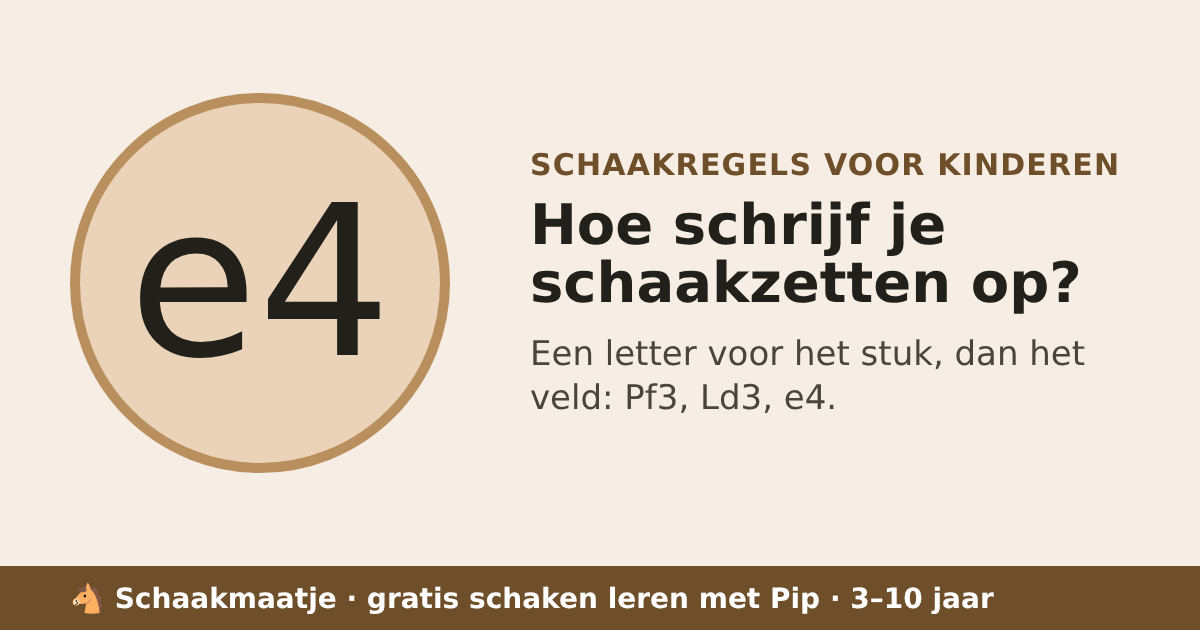
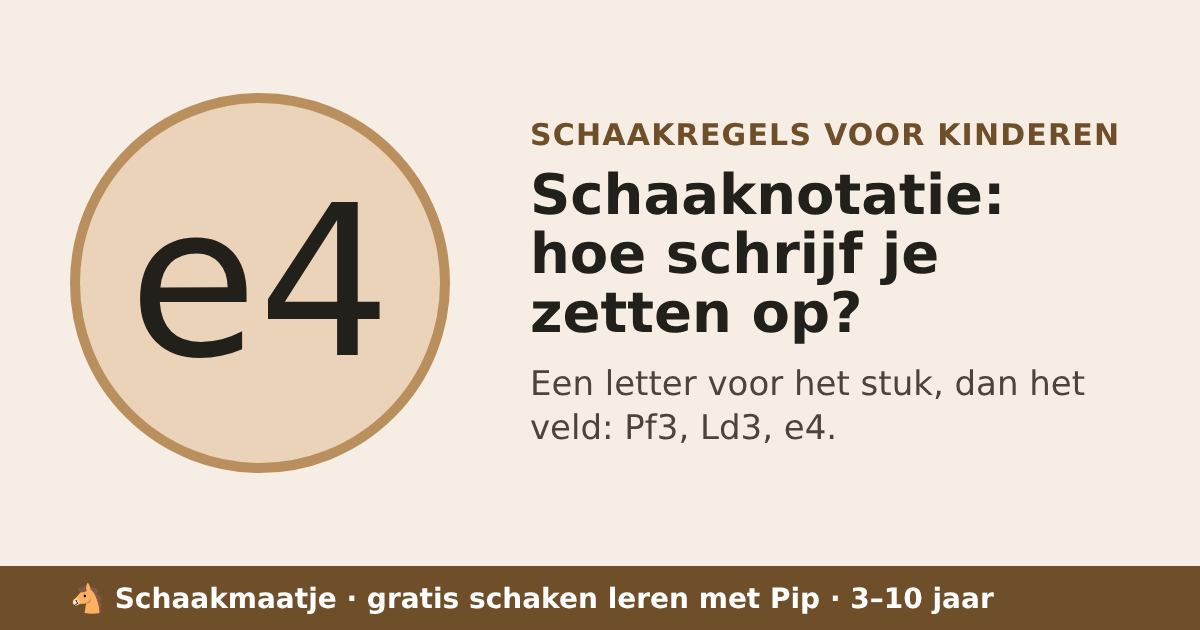
Zevenenzestigste review verwerkt
Blokkerend: de vorkpagina zei dat een koning die schaak staat zelf weg moet;
nu "eerst uit het schaak". Penning: een gepend stuk mag niet van de lijn af,
maar wel langs de lijn schuiven of de aanvaller slaan.

Regelpagina's waarvan de les voor oudere kinderen is, wijzen ook naar de eerste
les. Lespagina's hadden in de geëxporteerde HTML twee h1's; de build controleert
nu dat elke pagina er precies één heeft (ook stal, opfrissen en offline gerepareerd).
Verder de kleine punten: "lijn" vs. diagonaal, drie manieren om een penning op
te heffen, Tad1, notatie-3 uit de lijst, knop boven de vouw op /schaakregels/,
contrast van de tekentegels, "Hierna" op de laatste pagina, focusrand op /over,
een vrije poort voor live spelen in de doorloop, en een directere vorktest.

Changed region(s): [[0.4317, 0.181, 0.9558, 0.6937]]

diff --git a/src/content/schaakregels.ts b/src/content/schaakregels.ts
@@ -783,7 +783,7 @@ export const SCHAAKREGELS: Onderwerp[] = [
   },
   {
     slug: 'schaaknotatie',
-    vraag: 'Hoe schrijf je schaakzetten op?',
+    vraag: 'Schaaknotatie: hoe schrijf je zetten op?',
     zoektitel: 'Schaaknotatie: zo schrijf je schaakzetten op',
     omschrijving:
       'Elk veld heeft een naam, zoals e4, en elk stuk een letter: K, D, T, L en P. Zo lees en schrijf je schaakzetten, uitgelegd met een bewegend bord.',
@@ -814,6 +814,7 @@ export const SCHAAKREGELS: Onderwerp[] = [
         tekst: [
           'Slaat een stuk iets, dan komt er een x tussen: Lxf7 betekent dat de loper op f7 slaat. Slaat een pion, dan schrijf je de lijn waar hij vandaan komt: exd5.',
           'Staat de koning na de zet schaak, dan komt er een + achter. Is het mat, dan een #. De korte rokade schrijf je als 0-0, de lange als 0-0-0. En promoveert een pion, dan schrijf je erachter wat hij wordt: e8D.',
+          'Kunnen twee gelijke stukken naar hetzelfde veld, dan zet je erbij welke: Tad1 is de toren van de a-lijn naar d1, Pbd2 het paard van de b-lijn.',
           'Een partij schrijf je op met een nummer per zettenpaar: 1. e4 e5 2. Pf3 Pc6. Eerst de zet van wit, dan die van zwart.',
         ],
       },
@@ -824,7 +825,8 @@ export const SCHAAKREGELS: Onderwerp[] = [
       ['Waarom staat er in Engelse boeken N in plaats van P?', 'Elke taal heeft eigen letters. In het Engels is het paard N (knight), de loper B, de toren R en de dame Q. De velden heten overal hetzelfde.'],
       ['Moet een kind dit kennen voor de schaakclub?', 'Bij wedstrijden schrijf je je zetten op, dus vroeg of laat wel. In de app komt het in wereld 12, als een kind alle regels kent.'],
     ],
-    lessen: ['notatie-1', 'notatie-2', 'notatie-3'],
+    // notatie-3 gaat over het begin van een partij, niet over opschrijven (zevenenzestigste review).
+    lessen: ['notatie-1', 'notatie-2'],
   },
   {
     slug: 'vork',
@@ -842,12 +844,12 @@ export const SCHAAKREGELS: Onderwerp[] = [
         kop: 'Twee aanvallen met één zet',
         tekst: [
           'Je tegenstander mag per beurt maar één zet doen. Val je twee stukken tegelijk aan, dan kan hij er dus maar één in veiligheid brengen. Dat is het hele idee van de vork.',
-          'Het sterkst is een vork met schaak erin. Een koning die schaak staat, moet eerst zelf weg, en het andere stuk blijft onbeschermd achter.',
+          'Het sterkst is een vork met schaak erin. Een koning die schaak staat, moet eerst uit het schaak. Dan is er geen tijd om het andere stuk te redden.',
         ],
         animatie: {
           id: 'vork-paard',
           titel: 'Een paardenvork',
-          beschrijving: 'Een wit paard springt naar c7 en valt de zwarte koning op e8 en de toren op a8 tegelijk aan. De koning moet weg, en het paard slaat de toren.',
+          beschrijving: 'Een wit paard springt naar c7 en valt de zwarte koning op e8 en de toren op a8 tegelijk aan. De koning moet uit het schaak, en het paard slaat de toren.',
           fen: 'r3k3/8/N7/8/8/8/8/7K w - - 0 1',
           regels: 'echt',
           stappen: [
@@ -883,23 +885,23 @@ export const SCHAAKREGELS: Onderwerp[] = [
     kort: 'Een stuk zit vast, omdat er iets duurders achter staat.',
     stuk: 'b',
     antwoord:
-      'Een penning is een aanval op een stuk waar iets waardevollers achter staat, op dezelfde lijn. Staat de koning erachter, dan zit het voorste stuk vast. Schakers zeggen: het is gepend. Het mag niet weg, want dan zou de eigen koning schaak komen te staan.',
+      'Een penning is een aanval op een stuk waar iets waardevollers achter staat, op één rechte lijn: een rij, een lijn of een diagonaal. Staat de koning erachter, dan zit het voorste stuk vast. Schakers zeggen: het is gepend. Het mag niet opzij, want dan zou de eigen koning schaak komen te staan.',
     delen: [
       {
         kop: 'Vastgezet door de koning erachter',
         tekst: [
-          'Een toren, loper of dame valt over een lange lijn aan. Staan daar twee stukken van de tegenstander achter elkaar, dan zit het voorste in de knel. Gaat het opzij, dan raakt de aanval het stuk erachter.',
-          'Staat de koning erachter, dan is het streng: het voorste stuk mag dan helemaal niet weg, want je mag je eigen koning nooit schaak zetten.',
+          'Een toren, loper of dame valt ver aan, over een rij, een lijn of een diagonaal. Staan daar twee stukken van de tegenstander achter elkaar, dan zit het voorste in de knel. Gaat het opzij, dan raakt de aanval het stuk erachter.',
+          'Staat de koning erachter, dan is het streng: het voorste stuk mag dan niet van die lijn af, want je mag je eigen koning nooit schaak zetten. Kan het gepende stuk zelf over die lijn lopen, zoals een loper op een diagonaal of een toren op een rij, dan mag het wel langs de lijn schuiven, en de aanvaller slaan. Een paard kan dat nooit: dat zit echt vast.',
         ],
         animatie: {
           id: 'penning-loper',
           titel: 'Het paard zit vast',
-          beschrijving: 'Een witte loper gaat naar b5. Achter het zwarte paard op c6 staat de zwarte koning op e8, op dezelfde schuine lijn. Het paard kan geen enkele zet meer doen.',
+          beschrijving: 'Een witte loper gaat naar b5. Achter het zwarte paard op c6 staat de zwarte koning op e8, op dezelfde diagonaal. Het paard kan geen enkele zet meer doen.',
           fen: '4k3/8/B1n5/8/8/8/8/7K w - - 0 1',
           regels: 'echt',
           stappen: [
-            { tekst: 'Het zwarte paard en de zwarte koning staan op dezelfde schuine lijn.', markeer: ['c6', 'e8'] },
-            { tekst: 'De loper gaat op die lijn staan, op b5.', zet: 'a6-b5' },
+            { tekst: 'Het zwarte paard en de zwarte koning staan op dezelfde diagonaal.', markeer: ['c6', 'e8'] },
+            { tekst: 'De loper gaat op die diagonaal staan, op b5.', zet: 'a6-b5' },
             // Geen `bereik`: het paard heeft nul velden, en dat is juist de les.
             // tests/schaakregels.test.ts rekent na dat het vóór b5 wel kon springen en daarna niet.
             {
@@ -912,15 +914,15 @@ export const SCHAAKREGELS: Onderwerp[] = [
       {
         kop: 'En dan?',
         tekst: [
-          'Een gepend stuk is een makkelijk doelwit. Het kan niet vluchten, dus val het nog een keer aan, bijvoorbeeld met een pion. Je tegenstander moet het dan verdedigen of de penning opheffen, vaak door de koning opzij te zetten.',
+          'Een gepend stuk is een makkelijk doelwit. Het kan niet zomaar vluchten, dus val het nog een keer aan, bijvoorbeeld met een pion. Je tegenstander moet het dan verdedigen of de penning opheffen: de koning opzij zetten, iets ertussen zetten of de aanvaller slaan.',
           'Staat er geen koning maar een ander stuk achter, zoals de dame, dan mag het voorste stuk wel weg. Alleen kost dat dan vaak de dame.',
         ],
       },
     ],
     thuis:
-      'Zet op een leeg bord je koning en een paard op één lijn, en geef je kind een loper of toren. Vraag: waar zet je hem neer zodat het paard niet meer weg kan? Laat je kind daarna proberen met het paard te springen, en kijk samen waarom dat niet mag.',
+      'Zet op een leeg bord je koning en een paard op één rechte lijn of diagonaal, en geef je kind een loper of toren. Vraag: waar zet je hem neer zodat het paard niet meer weg kan? Laat je kind daarna proberen met het paard te springen, en kijk samen waarom dat niet mag.',
     vragen: [
-      ['Welke stukken kunnen pennen?', 'Alleen de stukken die over een lange lijn gaan: de toren, de loper en de dame. Een paard, pion of koning kan geen penning geven.'],
+      ['Welke stukken kunnen pennen?', 'Alleen de stukken die ver over een rij, lijn of diagonaal gaan: de toren, de loper en de dame. Een paard, pion of koning kan geen penning geven.'],
       ['Wanneer leert mijn kind de penning in de app?', 'In wereld 13, de Tactiekgrot, direct na de vork.'],
     ],
     lessen: ['tactiek-2'],

diff --git a/src/app/schaakregels/[onderwerp]/page.tsx b/src/app/schaakregels/[onderwerp]/page.tsx
@@ -2,7 +2,7 @@ import type { Metadata } from 'next'
 import Link from 'next/link'
 import { Icoon, lesIcoon } from '@/ui/beelden'
 import { notFound } from 'next/navigation'
-import { ALLE_LESSEN, lesMet } from '@/content'
+import { ALLE_LESSEN, lesMet, wereldMet } from '@/content'
 import { SCHAAKREGELS, onderwerpMet } from '@/content/schaakregels'
 import { SITE, VOOR_KINDEREN, deelkaart, kruimels } from '@/seo'
 import { Gegevens } from '@/ui/Gegevens'
@@ -49,7 +49,19 @@ export default async function Onderwerp({ params }: { params: Promise<{ onderwer
   const url = `${SITE}/schaakregels/${o.slug}/`
   const lessen = o.lessen.flatMap((id) => lesMet(id) ?? [])
   const i = SCHAAKREGELS.indexOf(o)
-  const volgende = SCHAAKREGELS[(i + 1) % SCHAAKREGELS.length]
+  // Na het laatste onderwerp niet terug naar het opzetten van het bord, maar naar het overzicht.
+  const volgende = SCHAAKREGELS[i + 1]
+  const oefen = lesMet(o.oefenEerst ?? o.lessen[0])
+  // Een les uit een wereld voor oudere kinderen (vork, penning, notatie): wie via Google
+  // met een kind van vijf komt, kreeg daar een opgave die het paard al kent. Dan ook de
+  // weg naar het begin (zevenenzestigste review, conversie B1).
+  const voorGevorderden = (wereldMet(oefen?.wereldId ?? '')?.minLeeftijd ?? 0) >= 8
+  const beginBijHetBegin = voorGevorderden && (
+    <p className={s.beginNog}>
+      Voor kinderen die de stukken al kennen. Nog nooit geschaakt?{' '}
+      <Link href={`/les/${ALLE_LESSEN[0].id}/`}>Begin bij de eerste les</Link>
+    </p>
+  )
 
   const gegevens = {
     '@context': 'https://schema.org',
@@ -101,6 +113,7 @@ export default async function Onderwerp({ params }: { params: Promise<{ onderwer
               <span aria-hidden="true">▶</span> Oefen dit met Pip, gratis
             </Link>
           )}
+          {beginBijHetBegin}
         </div>
       </header>
 
@@ -165,15 +178,22 @@ export default async function Onderwerp({ params }: { params: Promise<{ onderwer
         </ul>
         <p>
           <Link href={`/les/${o.oefenEerst ?? (lessen[0] ?? ALLE_LESSEN[0]).id}/`} className="btn btn--primary btn--big">
-            Begin met Schaakmaatje →
+            {voorGevorderden ? 'Oefen dit met Pip →' : 'Begin met Schaakmaatje →'}
           </Link>
         </p>
+        {beginBijHetBegin}
       </section>
 
       <section className={s.deel}>
-        <h2>Meer schaakregels</h2>
+        <h2>Meer over schaken</h2>
         <p>
-          Hierna: <Link href={`/schaakregels/${volgende.slug}/`}>{volgende.vraag}</Link>
+          {volgende ? (
+            <>
+              Hierna: <Link href={`/schaakregels/${volgende.slug}/`}>{volgende.vraag}</Link>
+            </>
+          ) : (
+            <Link href="/schaakregels/">Alle schaakregels op een rij</Link>
+          )}
         </p>
         <ul className={s.chips}>
           {SCHAAKREGELS.filter((x) => x !== o).map((x) => (

diff --git a/scripts/hosting-klaar.ts b/scripts/hosting-klaar.ts
@@ -121,6 +121,7 @@ function main() {
   vooraadOffline()
   controleerDeelplaatjes()
   controleerSitemap()
+  controleerHoofdkoppen()
 }
 
 /**
@@ -179,6 +180,34 @@ function canonicalVan(html: string): string | undefined {
 /** Staat er ergens een robots-meta met noindex, ongeacht de volgorde van de attributen? */
 function staatOpNoindex(html: string): boolean {
   return [...html.matchAll(/<meta\b[^>]*\bname="robots"[^>]*>/g)].some((m) => /noindex/.test(m[0]))
+}
+
+/**
+ * Elke pagina precies één h1, in de HTML zoals Google en een gedeelde link hem zien.
+ *
+ * De doorloop telt pas na het laden, en dan klopte het. Maar in de geëxporteerde HTML
+ * hadden alle 49 lespagina's er twee: de bovenbalk en de tekstversie van de les. En de
+ * stal en opfrissen hadden er nul, omdat ze tot het laden een lege pagina tekenden
+ * (zevenenzestigste review, codebase 1 en 2).
+ */
+export function hoofdkopFouten(uit: string): string[] {
+  const fouten: string[] = []
+  for (const html of alleBestanden(uit).filter((b) => b.endsWith('index.html'))) {
+    const n = (readFileSync(html, 'utf8').match(/<h1[\s>]/g) ?? []).length
+    if (n !== 1) fouten.push(`${html.slice(uit.length)}: ${n} keer een h1`)
+  }
+  return fouten
+}
+
+function controleerHoofdkoppen() {
+  const fouten = hoofdkopFouten(UIT)
+  if (fouten.length) {
+    console.error('Niet elke pagina heeft precies één hoofdkop:')
+    fouten.slice(0, 10).forEach((f) => console.error(`  ${f}`))
+    if (fouten.length > 10) console.error(`  … en ${fouten.length - 10} meer`)
+    process.exit(1)
+  }
+  console.log('Hosting-klaar: elke pagina heeft precies één hoofdkop.')
 }
 
 function controleerSitemap() {

diff --git a/src/app/schaakregels/Schaakregels.module.css b/src/app/schaakregels/Schaakregels.module.css
@@ -18,6 +18,9 @@
   background: var(--dark-sq); color: #fcf8ef; font-size: 30px; font-weight: 800; line-height: 1;
   box-shadow: var(--shadow);
 }
+/* Een teken (e4, ½) kreeg alleen licht op groen: 2,41:1. Met dezelfde donkere rand als
+   de stukken leest het ook in het lichte thema (zevenenzestigste review, layout). */
+.teken { -webkit-text-stroke: 1.5px #33302a; paint-order: stroke fill; filter: drop-shadow(0 1.5px 1px rgba(0, 0, 0, 0.28)); }
 .merkGroot { width: 96px; height: 96px; border-radius: 24px; font-size: 52px; }
 .stuk {
   font-family: 'Schaakstukken', sans-serif; font-variant-emoji: text; font-size: 1.25em;
@@ -27,6 +30,9 @@
 
 .deel { display: flex; flex-direction: column; gap: 16px; }
 .deel h2, .thuis h2 { margin: 0; font-size: clamp(1.35rem, 4vw, 1.7rem); }
+.beginNog { margin: 10px 0 0; font-size: 0.95rem; }
+/* Padding in plaats van min-height: het raakvlak groeit, de regelafstand niet. */
+.beginNog a { padding-block: 12px; }
 .tekst { max-width: 64ch; display: flex; flex-direction: column; gap: 12px; margin: 0; }
 .tekst p { margin: 0; }
 .bordvak { background: var(--surface); border: 2px solid var(--line); border-radius: 24px; padding: clamp(16px, 4vw, 28px); }

diff --git a/src/app/over/Over.module.css b/src/app/over/Over.module.css
@@ -18,7 +18,8 @@
 .lead { font-size: 1.15rem; margin-top: 14px; max-width: 34ch; }
 .knoppen { display: flex; flex-wrap: wrap; gap: 12px 18px; align-items: center; margin-top: 22px; }
 /* Een losse link naast de grote knop: 27 px hoog was te klein voor een duim. */
-.tekstknop { display: inline-flex; align-items: center; min-height: 44px; }
+.tekstknop { display: inline-flex; align-items: center; min-height: 44px; padding-inline: 6px; margin-inline: -6px; border-radius: 10px; }
+.tekstknop:focus-visible { outline: 3px solid var(--accent); outline-offset: 3px; }
 .feiten { list-style: none; padding: 0; margin: 22px 0 0; display: flex; flex-wrap: wrap; gap: 8px; }
 .feiten li { background: var(--grass-soft); color: var(--ink); border-radius: 999px; padding: 6px 14px; font-weight: 700; font-size: 0.95rem; }
 .feiten li::before { content: '✓\FE0E'; color: var(--grass); margin-right: 6px; }

diff --git a/public/offline/index.html b/public/offline/index.html
@@ -25,10 +25,12 @@
   button { border: 0; background: var(--accent); color: var(--accent-ink); font-size: 28px; flex: 0 0 auto; }
   a.knop { display: inline-flex; align-items: center; justify-content: center; gap: 10px; padding: 0 28px; background: var(--accent); color: var(--accent-ink); text-decoration: none; font-size: 1.2rem; }
   p.klein { color: var(--muted); font-size: 0.95rem; margin: 0; }
+  .sr { position: absolute; width: 1px; height: 1px; overflow: hidden; clip: rect(0 0 0 0); white-space: nowrap; }
 </style>
 </head>
 <body>
 <main>
+  <h1 class="sr">Even geen internet</h1>
   <div class="pip" aria-hidden="true">🐴</div>
   <div class="ballon">
     <span id="zin">Deze les heeft internet nodig. Op de kaart staan lessen die je nu wél kunt doen.</span>

diff --git a/tests/schaakregels.test.ts b/tests/schaakregels.test.ts
@@ -240,8 +240,11 @@ describe('wat de tekst over het bord zegt', () => {
   it('vork: het paard op c7 valt koning én toren aan', () => {
     const beelden = bouwBeelden(animatie('vork-paard'))
     expect(beelden[1].schaak).toEqual(['e8'])
-    // De toren valt pas na de koningszet, met hetzelfde paard: dat bewijst dat c7 hem raakte.
-    expect(bord(beelden[3]).a8).toEqual({ type: 'n', color: 'w' })
+    // Rechtstreeks: vanaf c7 kan het paard naar a8 (zevenenzestigste review, codebase 4).
+    const spel = new Game(animatie('vork-paard').fen)
+    spel.move('a6', 'c7')
+    spel.move('e8', 'd7')
+    expect(spel.destinations('c7')).toContain('a8')
   })
 
   it('het duurste stuk pakken: de toren levert meer op dan de pion', () => {

diff --git a/src/lesson/LessonPlayer.tsx b/src/lesson/LessonPlayer.tsx
@@ -505,7 +505,8 @@ export function LessonPlayer({
   if (!geladen) {
     return (
       <div className={`page ${styles.wereldpagina}`} style={{ '--toon': wereld.toon } as React.CSSProperties}>
-        <Kop titel={les.titel} terug="/kaart/" />
+        {/* De tekstversie heeft zelf de h1; twee was er één te veel (zevenenzestigste review). */}
+        <Kop titel={les.titel} terug="/kaart/" kop="p" />
         {/* Dit is wat er in de geëxporteerde HTML staat, en dus wat een zoekmachine
             en een gedeelde link te zien krijgen: de les in gewone tekst. Een kind ziet
             het hooguit een fractie van een seconde, tot de opgeslagen voortgang

diff --git a/src/app/schaakregels/page.tsx b/src/app/schaakregels/page.tsx
@@ -59,6 +59,10 @@ export default function Schaakregels() {
             Alle regels van het schaken, elk op een bord dat het voordoet. Voor ouders die het
             zelf even willen opfrissen, en om samen met je kind naar te kijken.
           </p>
+          {/* De weg naar de app stond pas onderaan (zevenenzestigste review, conversie K3). */}
+          <Link href={`/les/${ALLE_LESSEN[0].id}/`} className="btn btn--primary" style={{ marginTop: 12 }}>
+            <span aria-hidden="true">▶</span> Probeer de eerste les, gratis
+          </Link>
         </div>
       </header>
 

diff --git a/src/progress/StalScherm.tsx b/src/progress/StalScherm.tsx
@@ -27,7 +27,13 @@ export function StalScherm() {
   const profiel = useProfiel()
   const [uitgelicht, setUitgelicht] = useState<StalVak | null>(null)
 
-  if (!geladen) return <main className="page" />
+  // Tot het laden alvast de bovenbalk: dan heeft ook de geëxporteerde HTML een h1.
+  if (!geladen)
+    return (
+      <main className="page">
+        <Kop titel="Mijn stal" terug="/" />
+      </main>
+    )
 
   const alles = verzameling(voortgang, verslagen)
   const planken = perSoort(alles)

diff --git a/src/app/schaakregels/Beeldmerk.tsx b/src/app/schaakregels/Beeldmerk.tsx
@@ -6,7 +6,7 @@ import s from './Schaakregels.module.css'
 export function Beeldmerk({ onderwerp, groot }: { onderwerp: Onderwerp; groot?: boolean }) {
   return (
     <span aria-hidden="true" className={`${s.merk} ${groot ? s.merkGroot : ''}`}>
-      {onderwerp.stuk ? <span className={s.stuk}>{GLYPH[onderwerp.stuk]}</span> : onderwerp.teken}
+      {onderwerp.stuk ? <span className={s.stuk}>{GLYPH[onderwerp.stuk]}</span> : <span className={s.teken}>{onderwerp.teken}</span>}
     </span>
   )
 }

diff --git a/src/lesson/OpfrisScherm.tsx b/src/lesson/OpfrisScherm.tsx
@@ -180,7 +180,13 @@ export function OpfrisScherm() {
     return m
   }, [stand, hintVelden])
 
-  if (!geladen || !ronde) return <main className="page" />
+  // Tot het laden alvast de bovenbalk: dan heeft ook de geëxporteerde HTML een h1.
+  if (!geladen || !ronde)
+    return (
+      <main className="page">
+        <Kop titel="Opfrissen" terug="/" />
+      </main>
+    )
 
   if (!ronde.length || klaar) {
     return (
